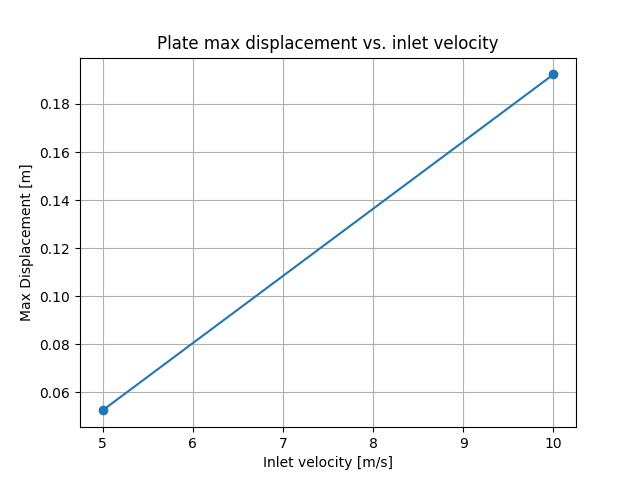
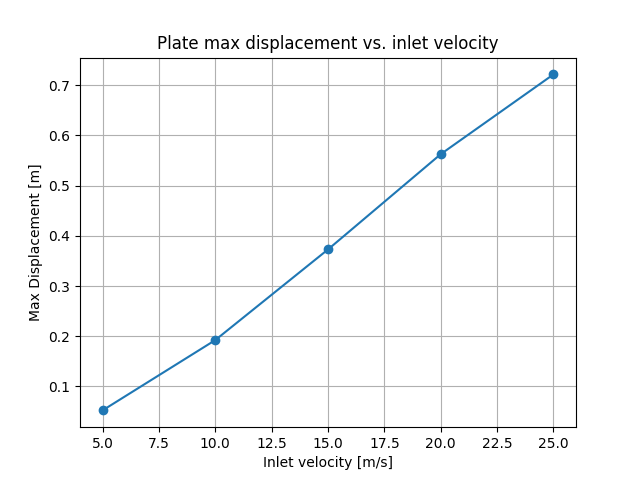
initial candidate version of param sweep sphinx gallery example

diff --git a/doc/source/examples/00-systemcoupling/parametric_sweep_vel.py b/doc/source/examples/00-systemcoupling/parametric_sweep_vel.py
@@ -165,7 +165,7 @@ def solve_coupled_analysis(working_dir):
 # %%
 # ``extract_max_displacement``
 # ~~~~~~~~~~~~~~~~~~~~~~~~~~~~
-# Query the MAPDL results for the maximum displacement
+# Use PyDPF to query the MAPDL results for the maximum displacement
 # value in the solution.
 def extract_max_displacement(working_dir):
   print("Extracting max displacement value")
@@ -195,7 +195,7 @@ def get_max_displacement(working_dir, inlet_velocity):
 # Generate an `x-y` plot of the results, showing
 # maximum displacement of the plate vs the inlet velocity.
 #
-def plot(x, y):
+def plot(working_dir, x, y):
   fig, ax = plt.subplots()
   ax.plot(x, y, "-o")
   ax.set(
@@ -203,8 +203,7 @@ def plot(x, y):
     ylabel='Max Displacement [m]',
     title="Plate max displacement vs. inlet velocity")
   ax.grid()
-  #plt.show()
-  plt.savefig("displacement")
+  plt.savefig(os.path.join(working_dir, "displacement"))
 
 # %%
 # Run the analyses
@@ -215,8 +214,7 @@ def plot(x, y):
 # corresponding values of the ``y`` array. Finally, we can call
 # the ``plot`` function to generate a plot from the arrays.
 
-#x = np.array([5.0, 10.0, 15.0, 20.0, 25.0])
-x = np.array([5.0, 10.0])
+x = np.array([5.0, 10.0, 15.0, 20.0, 25.0])
 y = np.array([0.0] * len(x))
 
 working_dir = setup_working_directory()
@@ -224,4 +222,4 @@ working_dir = setup_working_directory()
 for index, inlet_velocity in enumerate(x):
   y[index] = get_max_displacement(working_dir, inlet_velocity)
 
-plot(x, y)
+plot(working_dir, x, y)

diff --git a/doc/source/examples/00-systemcoupling/parametric_sweep_vel.rst b/doc/source/examples/00-systemcoupling/parametric_sweep_vel.rst
@@ -247,7 +247,7 @@ setting is modified in the Fluent file prior to this function being called.
 
 ``extract_max_displacement``
 ~~~~~~~~~~~~~~~~~~~~~~~~~~~~
-Query the MAPDL results for the maximum displacement
+Use PyDPF to query the MAPDL results for the maximum displacement
 value in the solution.
 
 .. GENERATED FROM PYTHON SOURCE LINES 170-179
@@ -304,11 +304,11 @@ Generate an `x-y` plot of the results, showing
 maximum displacement of the plate vs the inlet velocity.
 
 
-.. GENERATED FROM PYTHON SOURCE LINES 198-209
+.. GENERATED FROM PYTHON SOURCE LINES 198-208
 
 .. code-block:: default
 
-    def plot(x, y):
+    def plot(working_dir, x, y):
       fig, ax = plt.subplots()
       ax.plot(x, y, "-o")
       ax.set(
@@ -316,8 +316,7 @@ maximum displacement of the plate vs the inlet velocity.
         ylabel='Max Displacement [m]',
         title="Plate max displacement vs. inlet velocity")
       ax.grid()
-      #plt.show()
-      plt.savefig("displacement")
+      plt.savefig(os.path.join(working_dir, "displacement"))
 
 
 
@@ -326,7 +325,7 @@ maximum displacement of the plate vs the inlet velocity.
 
 
 
-.. GENERATED FROM PYTHON SOURCE LINES 210-217
+.. GENERATED FROM PYTHON SOURCE LINES 209-216
 
 Run the analyses
 ----------------
@@ -336,13 +335,12 @@ The results of the ``get_max_displacement`` calls are used to fill in the
 corresponding values of the ``y`` array. Finally, we can call
 the ``plot`` function to generate a plot from the arrays.
 
-.. GENERATED FROM PYTHON SOURCE LINES 217-228
+.. GENERATED FROM PYTHON SOURCE LINES 216-226
 
 .. code-block:: default
 
 
-    #x = np.array([5.0, 10.0, 15.0, 20.0, 25.0])
-    x = np.array([5.0, 10.0])
+    x = np.array([5.0, 10.0, 15.0, 20.0, 25.0])
     y = np.array([0.0] * len(x))
 
     working_dir = setup_working_directory()
@@ -350,7 +348,7 @@ the ``plot`` function to generate a plot from the arrays.
     for index, inlet_velocity in enumerate(x):
       y[index] = get_max_displacement(working_dir, inlet_velocity)
 
-    plot(x, y)
+    plot(working_dir, x, y)
 
 
 
@@ -369,13 +367,31 @@ the ``plot`` function to generate a plot from the arrays.
     Solving the coupled analysis. This may take a while...
     ...done!
     Extracting max displacement value
-    Max displacement value = 0.05236548595216133
+    Max displacement value = 0.05236548595137805
     Inlet velocity is set to 10.0
     Setting up the coupled analysis
     Solving the coupled analysis. This may take a while...
     ...done!
     Extracting max displacement value
-    Max displacement value = 0.1923282698969194
+    Max displacement value = 0.19232826989593016
+    Inlet velocity is set to 15.0
+    Setting up the coupled analysis
+    Solving the coupled analysis. This may take a while...
+    ...done!
+    Extracting max displacement value
+    Max displacement value = 0.372767517329969
+    Inlet velocity is set to 20.0
+    Setting up the coupled analysis
+    Solving the coupled analysis. This may take a while...
+    ...done!
+    Extracting max displacement value
+    Max displacement value = 0.5624418883722584
+    Inlet velocity is set to 25.0
+    Setting up the coupled analysis
+    Solving the coupled analysis. This may take a while...
+    ...done!
+    Extracting max displacement value
+    Max displacement value = 0.7212533243400617
 
 
 
@@ -383,7 +399,7 @@ the ``plot`` function to generate a plot from the arrays.
 
 .. rst-class:: sphx-glr-timing
 
-   **Total running time of the script:** ( 6 minutes  11.497 seconds)
+   **Total running time of the script:** ( 14 minutes  40.129 seconds)
 
 
 .. _sphx_glr_download_examples_00-systemcoupling_parametric_sweep_vel.py:

diff --git a/doc/source/examples/00-systemcoupling/sg_execution_times.rst b/doc/source/examples/00-systemcoupling/sg_execution_times.rst
@@ -5,10 +5,10 @@
 
 Computation times
 =================
-**06:11.497** total execution time for **examples_00-systemcoupling** files:
+**14:40.129** total execution time for **examples_00-systemcoupling** files:
 
 +--------------------------------------------------------------------------------------------------+-----------+--------+
-| :ref:`sphx_glr_examples_00-systemcoupling_parametric_sweep_vel.py` (``parametric_sweep_vel.py``) | 06:11.497 | 0.0 MB |
+| :ref:`sphx_glr_examples_00-systemcoupling_parametric_sweep_vel.py` (``parametric_sweep_vel.py``) | 14:40.129 | 0.0 MB |
 +--------------------------------------------------------------------------------------------------+-----------+--------+
 | :ref:`sphx_glr_examples_00-systemcoupling_oscillating_plate.py` (``oscillating_plate.py``)       | 00:00.000 | 0.0 MB |
 +--------------------------------------------------------------------------------------------------+-----------+--------+
